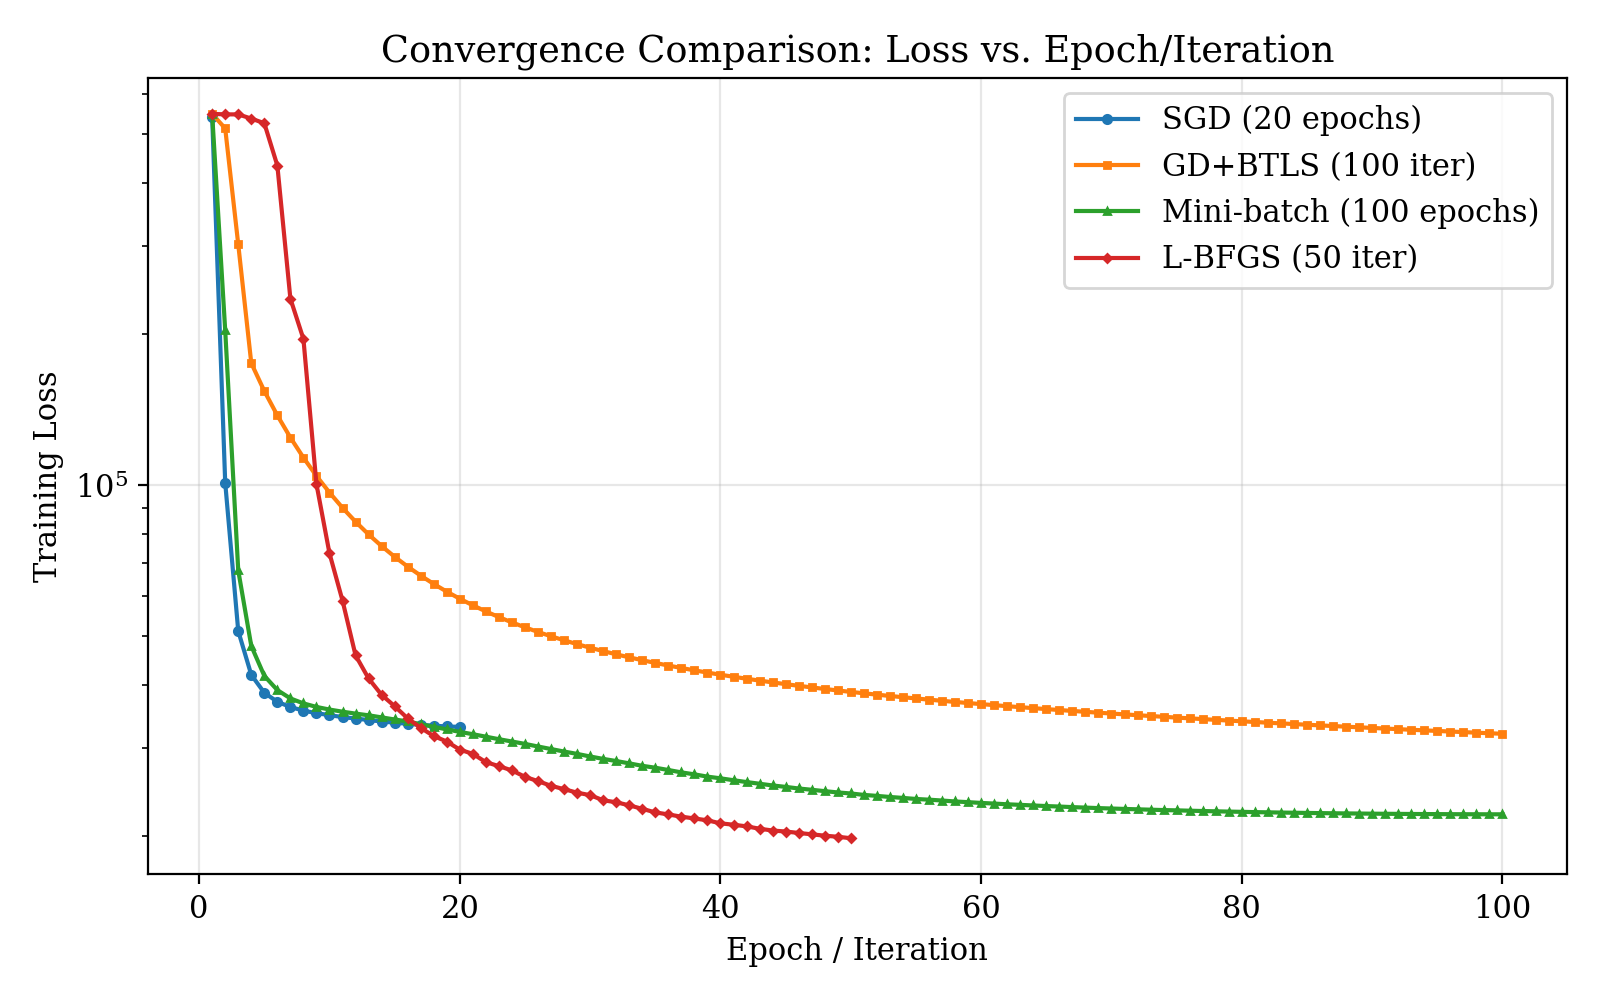
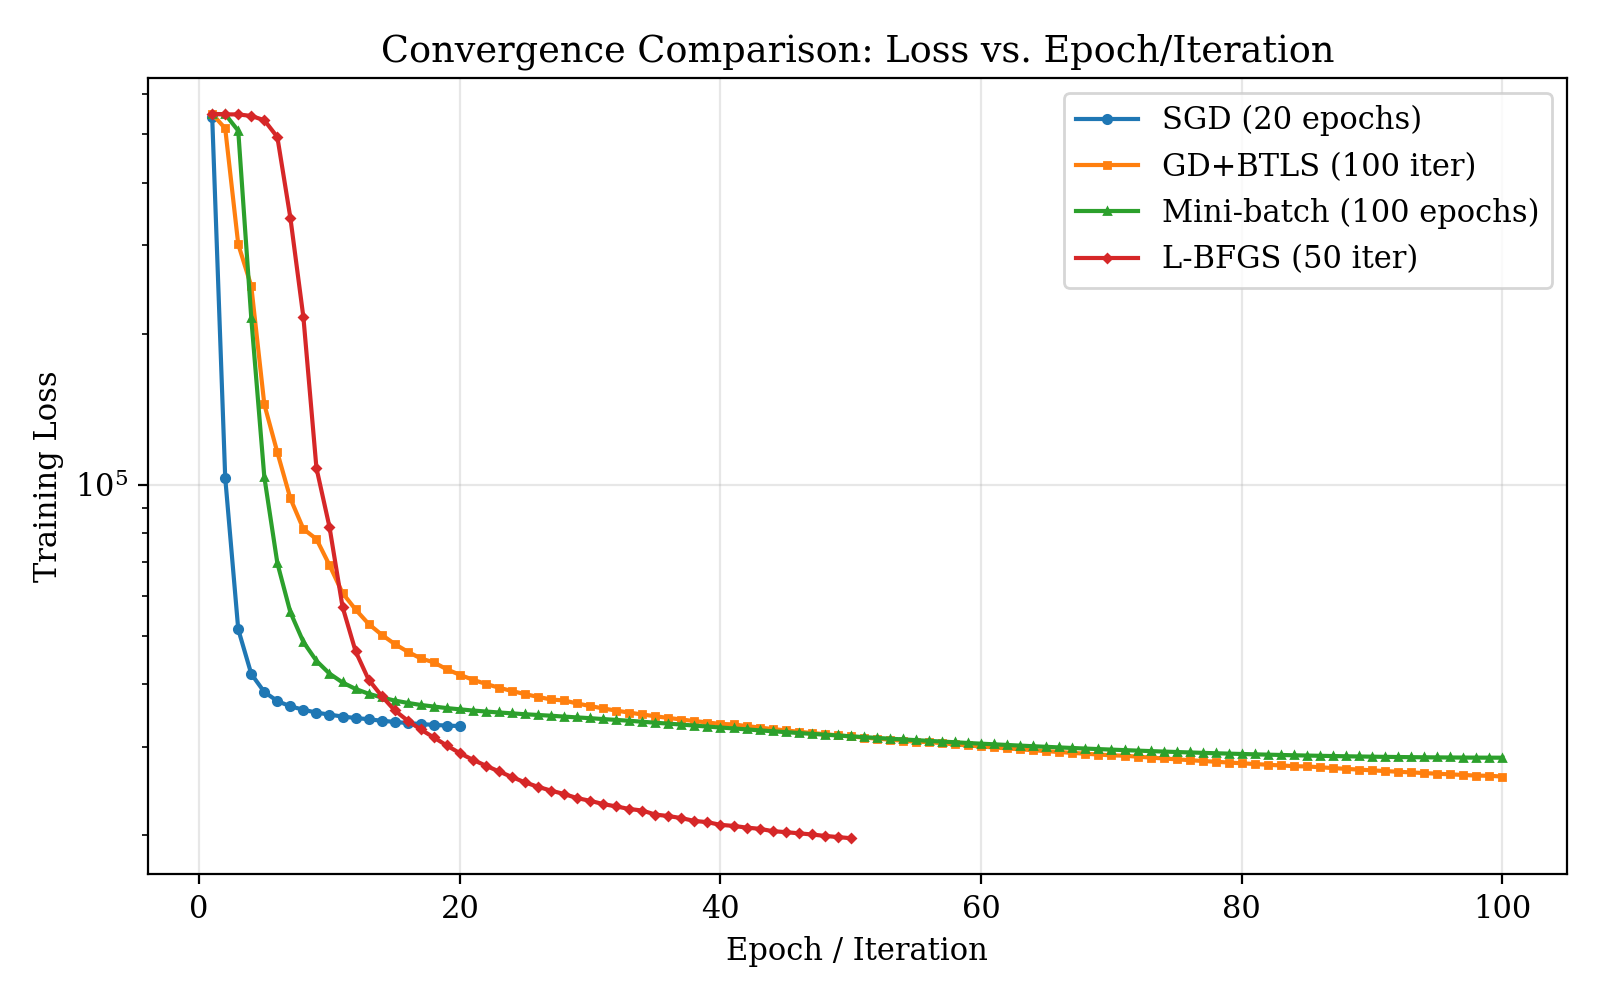
fix: the gradients computation formula error | upd: readme

diff --git a/matrix_factorization.py b/matrix_factorization.py
@@ -64,12 +64,12 @@ class MatrixFactorization:
     grad_V = np.zeros_like(self.V)
     if not ratings:
       return grad_U, grad_V
-    grad_U += 2 * self.lam * self.U
-    grad_V += 2 * self.lam * self.V
+    grad_U += self.lam * self.U
+    grad_V += self.lam * self.V
     for u, i, r in ratings:
       u_idx = u - 1
       i_idx = i - 1
       err = r - self.U[u_idx] @ self.V[i_idx]
-      grad_U[u_idx] += -2 * err * self.V[i_idx]
-      grad_V[i_idx] += -2 * err * self.U[u_idx]
+      grad_U[u_idx] += -err * self.V[i_idx]
+      grad_V[i_idx] += -err * self.U[u_idx]
     return grad_U, grad_V

diff --git a/optimizer.py b/optimizer.py
@@ -57,8 +57,8 @@ def gd_btls(model, train_ratings: list[tuple[int, int, int]], alpha, beta, sigma
   max_iter = 100
 
   print("=== Gradient Descent with Backtracking Line Search Iteration ===")
-  alpha_k = alpha
   for iteration in range(max_iter):
+    alpha_k = alpha
     grad_U, grad_V = model.gradients(train_ratings) 
     grad_norm_sq = np.sum(grad_U ** 2) + np.sum(grad_V ** 2)
     old_loss = model.loss(train_list)

diff --git a/README.md b/README.md
@@ -1,37 +1,85 @@
 # Movie Recommendation via Matrix Factorization
 
-A comparison of optimization algorithms for collaborative filtering on the MovieLens 100K dataset. Course project for ECE 503 — Optimization for Machine Learning at the University of Victoria.
+A comparison of four optimization algorithms for collaborative filtering on the MovieLens 100K dataset. Course project for **ECE 503 — Optimization for Machine Learning** at the University of Victoria.
 
 ## Overview
 
-This project formulates movie recommendation as a matrix factorization problem, decomposing the sparse user-movie rating matrix into two low-rank latent factor matrices. Four optimization algorithms are implemented and compared:
+This project formulates movie recommendation as a **matrix factorization** problem: the sparse user-movie rating matrix is approximated by the product of two low-rank latent factor matrices, $U \in \mathbb{R}^{m \times k}$ and $V \in \mathbb{R}^{n \times k}$, where $m$ users, $n$ movies, and $k = 10$ latent factors. The predicted rating for user $u$ on movie $i$ is $\hat{r}_{ui} = U_u^\top V_i$.
 
-- **Stochastic Gradient Descent (SGD)** — per-sample updates with decaying learning rate
-- **Gradient Descent with Backtracking Line Search (GD+BTLS)** — full gradient with Armijo condition
-- **Mini-Batch Gradient Descent** — batch gradient with normalized updates
-- **L-BFGS** — quasi-Newton method via scipy
+Four optimizers are implemented from scratch (with L-BFGS via SciPy) and benchmarked on the same objective:
+
+- **Stochastic Gradient Descent (SGD)** — per-sample updates with linearly decaying learning rate
+- **Gradient Descent with Backtracking Line Search (GD+BTLS)** — full-batch gradient with Armijo condition
+- **Mini-Batch Gradient Descent** — batch-averaged gradient with normalized updates
+- **L-BFGS** — limited-memory quasi-Newton method via `scipy.optimize.minimize`
+
+## Problem Formulation
+
+The training objective is the regularized squared-error loss:
+
+$$L(U, V) = \frac{1}{2} \sum_{(u, i, r) \in \mathcal{R}} (r - U_u^\top V_i)^2 + \frac{\lambda}{2} \left( \|U\|_F^2 + \|V\|_F^2 \right)$$
+
+where $\mathcal{R}$ is the set of observed (user, movie, rating) triples and $\lambda$ is the regularization strength. The gradients with respect to a single user/item factor row are:
+
+$$\nabla_{U_u} L = -\sum_{i : (u,i,r) \in \mathcal{R}} (r - U_u^\top V_i)\, V_i + \lambda U_u$$
+
+$$\nabla_{V_i} L = -\sum_{u : (u,i,r) \in \mathcal{R}} (r - U_u^\top V_i)\, U_u + \lambda V_i$$
 
 ## Dataset
 
-[MovieLens 100K](https://grouplens.org/datasets/movielens/100k/) — 100,000 ratings (1–5) from 943 users on 1,682 movies.
+[**MovieLens 100K**](https://grouplens.org/datasets/movielens/100k/) — 100,000 ratings (1–5) from 943 users on 1,682 movies, split 80/20 into train/test.
+
+## Results
+
+All optimizers were trained on the same 80% split and evaluated on the held-out 20%. Latent dimensionality $k = 10$, regularization $\lambda$ held fixed across optimizers.
+
+| Optimizer       | Final Training Loss | Test RMSE  | Wall-Clock Time | Iterations    |
+| --------------- | ------------------- | ---------- | --------------- | ------------- |
+| SGD             | 33,033              | 0.9575     | **21.27 s**     | 20 epochs     |
+| GD + BTLS       | 26,203              | 0.9374     | 245.63 s        | 100 iter      |
+| Mini-Batch GD   | 28,570              | **0.9348** | 67.34 s         | 100 epochs    |
+| L-BFGS          | **19,742**          | 1.0084     | 43.16 s         | 50 iter       |
+
+### Convergence Comparison
+
+![Loss vs. Epoch / Iteration](convergence_epoch.png)
+
+![Loss vs. Wall-Clock Time](convergence_time.png)
+
+The per-iteration plot is misleading on its own — one SGD epoch performs ~80,000 parameter updates while one GD+BTLS iteration performs only one. The wall-clock plot is the honest comparison and shows the practical Pareto frontier.
+
+## Discussion
+
+**L-BFGS achieved the lowest training loss but the worst test RMSE.** its test RMSE (1.0084) was the highest in the comparison. This is a clear case of **overfitting driven by optimizer efficiency**: L-BFGS takes very effective steps in the loss surface, but on this problem it converges into a sharp minimum that generalizes poorly. A higher $\lambda$ or early stopping based on a validation split would likely close this gap.
+
+**Mini-Batch GD won test RMSE.** It strikes the best trade-off between gradient noise (which acts as implicit regularization) and convergence speed.
+
+**SGD is the best speed/accuracy compromise.** Within ~21 seconds it reaches a test RMSE similar to the best optimizer (0.9575 to 0.9348), while the best method (Mini-Batch) takes more than 3× longer for marginal improvement.
+
+**GD + BTLS is the slowest by a wide margin.** Each iteration requires evaluating the full gradient *and* the loss multiple times during line search. This guarantees descent but costs roughly 12× more wall-clock time than SGD for a 2% RMSE gain.
+
+The takeaway: in practice, the choice of optimizer for matrix factorization should be guided by the time budget and the tolerance for hyperparameter tuning, not by which method achieves the lowest training loss.
 
 ## Project Structure
 
 ```
-├── data_loader.py            # Load and split MovieLens data
-├── matrix_factorization.py   # MF model (predict, loss, gradients)
-├── optimizers.py             # SGD, GD+BTLS, Mini-Batch, L-BFGS
-├── evaluation.py             # RMSE computation
-├── main.py                   # Run experiments
-├── generate_plots.py         # Convergence plots
+├── dataloader.py             # Load and 80/20 split MovieLens data
+├── matrix_factorization.py   # MF model: predict, loss, gradients
+├── optimizer.py              # SGD, GD+BTLS, Mini-Batch, L-BFGS
+├── evaluation.py             # RMSE and learning-rate decay
+├── main.py                   # Run all four experiments end-to-end
+├── generate_plot.py          # Convergence plots
 └── u.data                    # MovieLens 100K ratings
 ```
 
 ## Usage
 
 ```bash
+pip install -r requirements.txt
 python main.py
 ```
+
+This runs all four optimizers on the same train/test split and prints loss curves, final test RMSE, and wall-clock time for each.
 
 ## Requirements
 
@@ -39,3 +87,8 @@ python main.py
 - NumPy
 - SciPy
 - Matplotlib
+
+## References
+
+- Koren, Y., Bell, R., & Volinsky, C. (2009). *Matrix Factorization Techniques for Recommender Systems*. IEEE Computer.
+- Nocedal, J., & Wright, S. (2006). *Numerical Optimization* (2nd ed.). Springer. — for BTLS (Armijo) and L-BFGS background.
